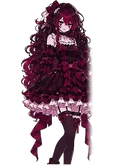
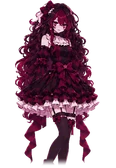
Re-cut all 10 original outfits whole from the full sheet (no side cuts, no leftovers, holes in white clothes kept); only the sheet's own bottom edge fades
Claude-Session: https://claude.ai/code/session_01WGxcBkyYwxg5pKWxF7e3SB

diff --git a/index.html b/index.html
@@ -445,7 +445,7 @@ nav button svg{display:none}
           <div class="mirTag">WARDROBE</div>
           <div class="mirIn">
             <div class="mirShadow"></div>
-            <img id="look0" class="look on" alt="Cerise, full body" src="img/outfits/jester.webp?v=20261127233843">
+            <img id="look0" class="look on" alt="Cerise, full body" src="img/outfits/jester.webp?v=20261127234752">
             <img id="look1" class="look" alt="">
             <div class="mirFlash" id="mirFlash"></div>
           </div>
@@ -555,7 +555,7 @@ nav button svg{display:none}
       </div>
       <div class="group"><h3>What she remembers</h3><div id="memList"></div></div>
       <button class="btn ghost" id="s-clear" type="button">Clear chat history</button>
-      <p style="color:var(--mute);font-size:12px;text-align:center;margin-top:18px">Cerise build 20261127233843 · settings save automatically</p>
+      <p style="color:var(--mute);font-size:12px;text-align:center;margin-top:18px">Cerise build 20261127234752 · settings save automatically</p>
     </div></section>
   </main>
   <nav>
@@ -577,7 +577,7 @@ const VAR = { neutral:['F01'], cold:['F26','F19'], sad:['F22','F05'], bored:['F1
   pout:['F08','F11'], flustered:['F08','F29'], shy:['F29','F11'], love:['F17','F25'], excited:['F24'], cry:['F18'], teary:['F05'], sleepy:['F28'], sleeping:['F09'],
   blank:['F30'], dark:['F20','F23'], sick:['F27'] };
 const MOODS = Object.keys(VAR);
-const VER = '20261127233843';
+const VER = '20261127234752';
 // her wardrobe (Her tab): she changes outfit to fit what you talk about
 const OUTFITS = [
   { id: 'jester', name: 'The Crimson Jester', short: 'Jester', sub: 'Her signature',
